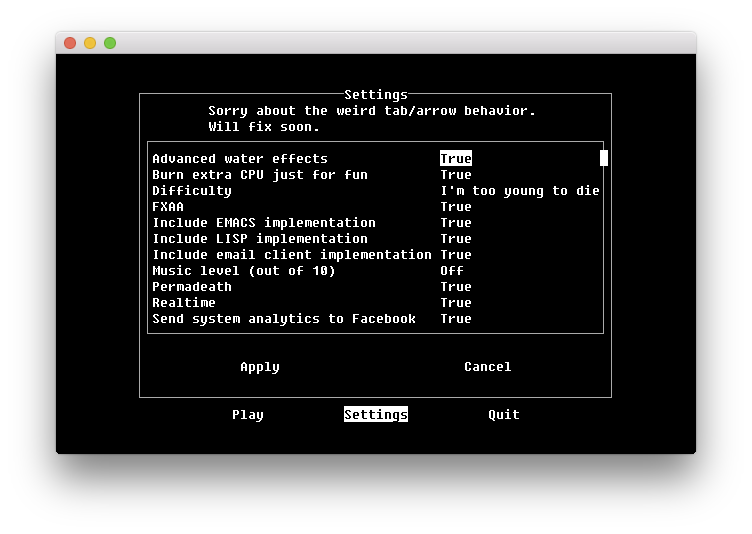
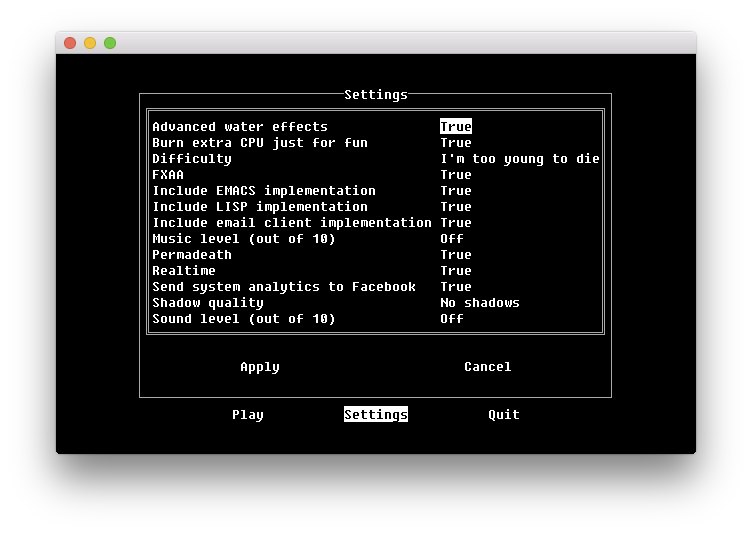
Add back scroll indicator

diff --git a/clubsandwich/ui/collection_list.py b/clubsandwich/ui/collection_list.py
@@ -33,7 +33,8 @@ class SettingsListView(FirstResponderContainerView):
   def __init__(self, label_control_pairs, value_column_width=16, *args, **kwargs):
     self.rect_view = RectView()
     self.rect_view.fill = False
-    super().__init__(subviews=[self.rect_view], *args, **kwargs)
+    self.scroll_indicator_view = LabelView(text='█')
+    super().__init__(subviews=[self.rect_view, self.scroll_indicator_view], *args, **kwargs)
     self._min_row = 0
     self.value_column_width = value_column_width
     self.first_responder_index = None
@@ -80,7 +81,10 @@ class SettingsListView(FirstResponderContainerView):
     How far down the user has scrolled. If a negative value, no scrolling is
     possible.
     """
-    return self.min_row / (len(self.labels) - self.inner_height - 1)
+    try:
+      return self.min_row / (len(self.labels) - self.inner_height - 1)
+    except ZeroDivisionError:
+      return -1
 
   def scroll_to(self, y):
     if self.inner_height <= 0:
@@ -99,6 +103,11 @@ class SettingsListView(FirstResponderContainerView):
 
   def layout_subviews(self):
     self.rect_view.apply_springs_and_struts_layout_in_superview()
+    if self.scroll_fraction >= 0:
+      self.scroll_indicator_view.frame = Rect(
+        Point(self.bounds.width - 1, 1 + floor(self.inner_height * self.scroll_fraction)),
+        Size(1, 1))
+
     for i in range(len(self.labels)):
       is_in_view = self.get_is_in_view(i)
       if is_in_view:
@@ -111,16 +120,6 @@ class SettingsListView(FirstResponderContainerView):
           Size(self.value_column_width, 1))
       self.labels[i].is_hidden = not is_in_view
       self.values[i].is_hidden = not is_in_view
-
-  def draw(self, ctx):
-    if self.scroll_fraction < 0:
-      return
-    with temporary_color('#ffffff', None):
-      ctx.put(
-        Point(
-          self.bounds.width - 1,
-          1 + floor(self.inner_height * self.scroll_fraction)),
-        '█')
 
   def descendant_did_become_first_responder(self, control):
     for i in range(len(self.labels)):

diff --git a/demo.py b/demo.py
@@ -105,20 +105,19 @@ class SettingsScene(UIScene):
             'Settings',
             layout_options=LayoutOptions.centered(60, 20),
             subviews=[
-                LabelView('Sorry about the weird tab/arrow behavior.\nWill fix soon.', layout_options=LayoutOptions.row_top(2)),
                 SettingsListView(
                     [
                         (k, CyclingButtonView(v, v[0], callback=lambda _: None, align_horz='left'))
                         for k, v in sorted(SettingsScene.OPTIONS.items())
                     ],
                     value_column_width=20,
-                    layout_options=LayoutOptions(bottom=3).with_updates(top=2)),
+                    layout_options=LayoutOptions(bottom=5)),
                 ButtonView(
                     text='Apply', callback=self.apply,
-                    layout_options=LayoutOptions.row_bottom(3).with_updates(right=0.5)),
+                    layout_options=LayoutOptions.row_bottom(5).with_updates(right=0.5)),
                 ButtonView(
                     text='Cancel', callback=lambda: self.director.pop_scene(),
-                    layout_options=LayoutOptions.row_bottom(3).with_updates(left=0.5)),
+                    layout_options=LayoutOptions.row_bottom(5).with_updates(left=0.5)),
             ])
         super().__init__(view, *args, **kwargs)
 
